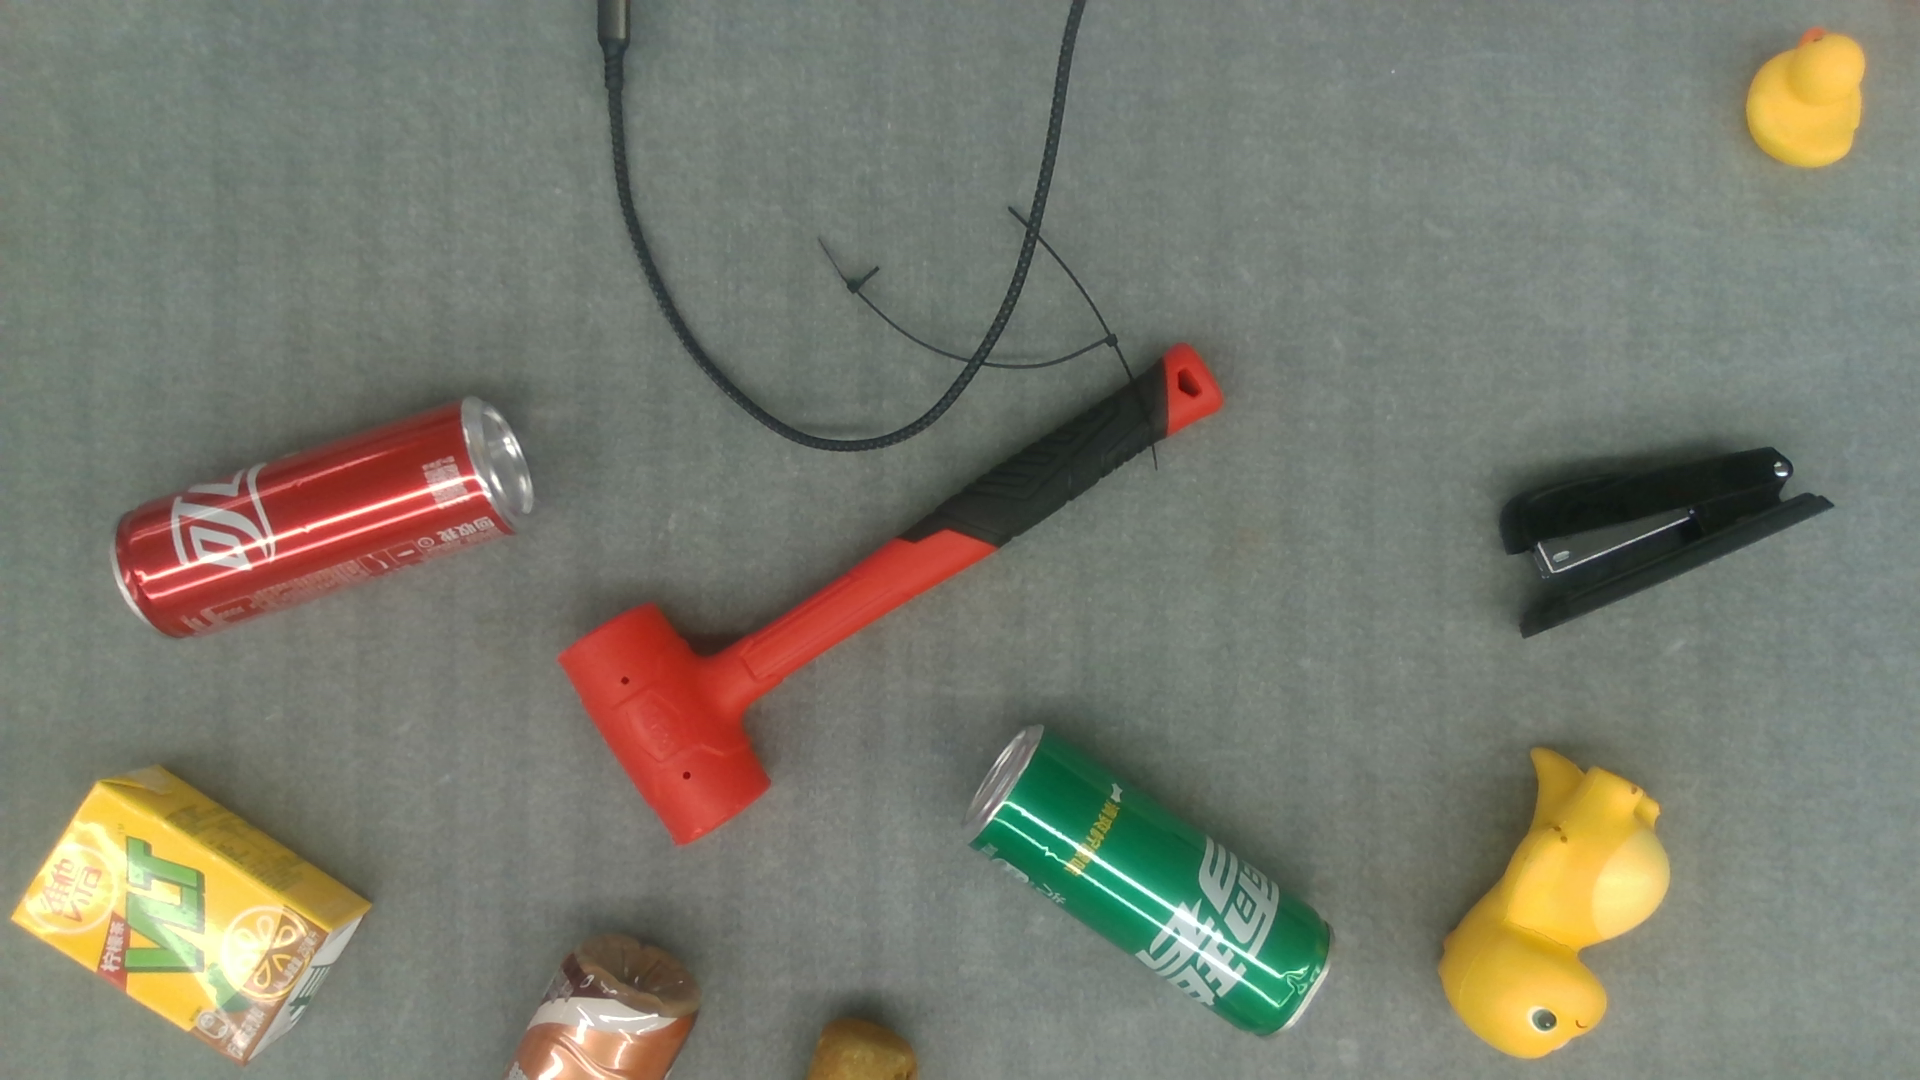
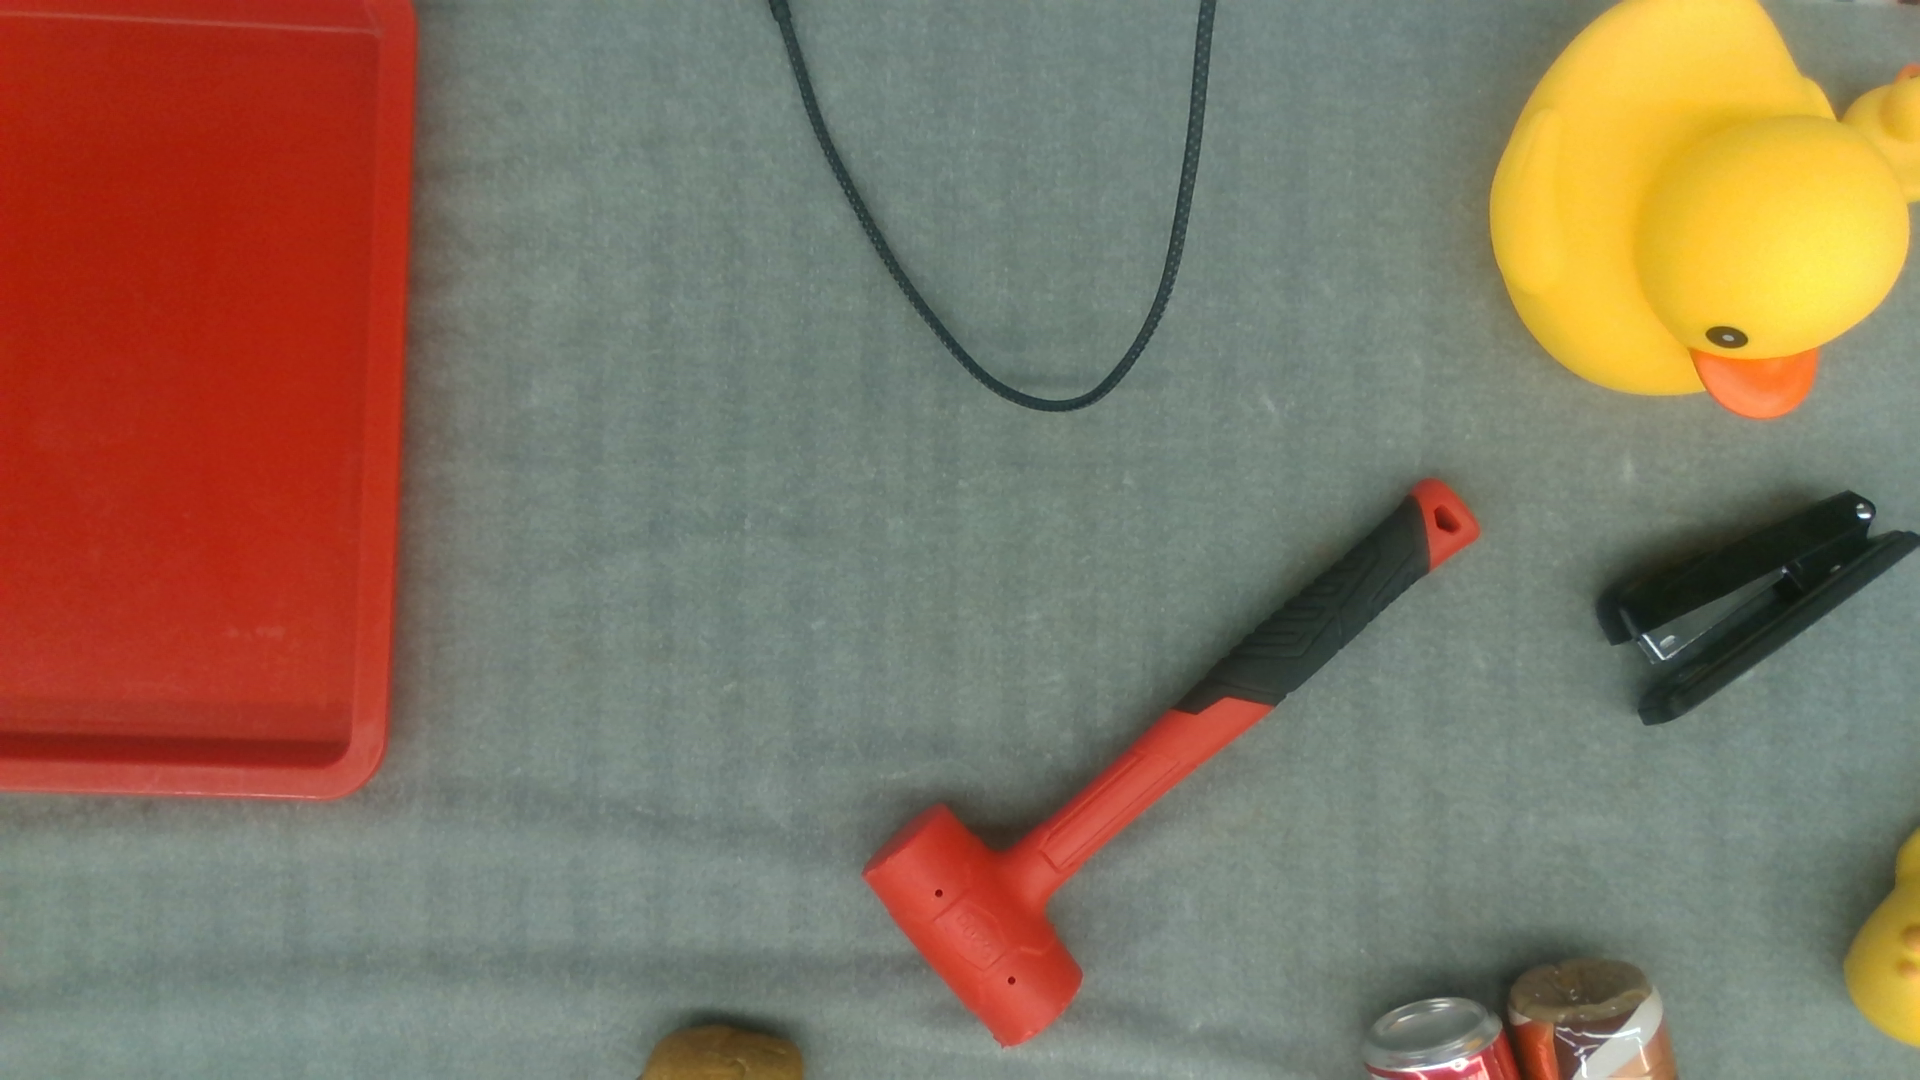
add init joint pose

diff --git a/edgs/main.py b/edgs/main.py
@@ -32,7 +32,6 @@ class EdgsTasks():
 
     def process_task(self):
         print("Sucessfully detected wake word")
-        
         # Step 1: Voice to Text using IFlytekInterface
         # self.speaker.play_audio(iflytek_config.start_recording_audio_path)
         # audio_frames = self.microphone.listen() 
@@ -44,8 +43,7 @@ class EdgsTasks():
         #     self.speaker.play_audio(feedback_params.not_clear)
         #     return None
         # self.speaker.play_audio(iflytek_config.stop_recording_audio_path)
-
-        language_prompt = "帮我拿一个雪碧"
+        language_prompt = "帮我拿一个锤子"
 
         # Step 2: Capture RGB-D using Realsense Camera
         self.camera.capture_current_info()
@@ -57,7 +55,8 @@ class EdgsTasks():
             return None
 
         # Step 3: Use VLM to understand the text and connect to image
-        gpt_result = self.doubao_interface.understand_image_by_text(language_prompt, color_image_path)        
+        gpt_result = self.doubao_interface.understand_image_by_text(language_prompt, color_image_path)  
+        print("gpt_result:",gpt_result)      
         if gpt_result is None:
             return None
         
@@ -80,8 +79,10 @@ class EdgsTasks():
         # Step 7: Execute movement
         self.task_controller.robotic_arm_controller.execute_movement_joints(q_list)
         self.task_controller.robotic_arm_controller.close_gripper()
-        self.task_controller.robotic_arm_controller.execute_movement_pose(self.task_controller.start_pose)
-        self.task_controller.robotic_arm_controller.execute_movement_joint(panda_py.ik(franka_pose.place_pose))
+        q_1 = panda_py.ik(franka_pose.pick_up_pose)
+        # q_2 = self.robot_planner.pose_to_joint(franka_pose.place_pose)
+        place_list = [q_1]
+        self.task_controller.robotic_arm_controller.execute_movement_joints(place_list)
         self.task_controller.robotic_arm_controller.open_gripper()
 
     def loop(self):

diff --git a/edgs/dexterous_grasp/config/control_module_varant.py b/edgs/dexterous_grasp/config/control_module_varant.py
@@ -7,7 +7,7 @@ HandMotionParams = namedtuple('HandMotionParams', ['speedSet', 'angleSet_execute
 HandDeviceParams = namedtuple('HandDeviceParams', ['port', 'baudrate', 'regdict'])
 FrankaParams = namedtuple('FrankaParams', ['hostname', 'username', 'password','T_C_E'])
 RealManParams = namedtuple('RealManParams', ['hostname', 'username', 'password'])
-FrankaPose = namedtuple('FrankaPose', ['place_pose'])
+FrankaPose = namedtuple('FrankaPose', ['pick_up_pose','place_pose','pick_up_joint','place_joint'])
 
 # Robot arm IP address
 # robot_arm_ip_address = "192.168.1.215"
@@ -80,10 +80,18 @@ realman_config = RealManParams(
 )
 
 franka_pose = FrankaPose(
-    place_pose = [
-        [9.99945904e-01, -9.06335005e-03, 2.60628050e-03, 3.07498051e-01],
-        [-9.05288659e-03, -9.99941399e-01, -3.99890525e-03, -6.31510330e-04],
-        [2.64237125e-03, 3.97509457e-03, -9.99988608e-01, 4.86762029e-01],
+    pick_up_pose = [
+        [9.99127271e-01, 2.53216505e-04, -4.15380770e-02, 3.72154993e-01],
+        [8.24733595e-04, -9.99895602e-01, 1.37424452e-02, 9.02327462e-03],
+        [-4.15302607e-02, -1.37647096e-02, -9.99042408e-01, 2.27123375e-01],
         [0.00000000e+00, 0.00000000e+00, 0.00000000e+00, 1.00000000e+00]
-    ]
+    ],
+    place_pose = [
+        [0.51680651, -0.85371277, -0.06376806, 0.29916253],
+        [-0.8555555, -0.51768258, -0.00320589, -0.34101281],
+        [-0.03027471, 0.05621394, -0.9979596, 0.09485565],
+        [0., 0., 0., 1.]
+    ],
+    pick_up_joint = [-0.011383417062461376, -0.25433722138404846, 0.022677350789308548, -2.6251397132873535, 0.005148423369973898, 2.295717477798462, 0.8916455507278442],
+    place_joint = []
 )

diff --git a/edgs/dexterous_grasp/logic_module/planning_module/robotic_arm_planning/robotic_arm_planner.py b/edgs/dexterous_grasp/logic_module/planning_module/robotic_arm_planning/robotic_arm_planner.py
@@ -42,7 +42,7 @@ class FrankaArmPlanner:
         translation = P_O_B
         return translation, rotation
 
-    def curobo_process(self, P_O_C,T_C_E, T_E_B):
+    def get_ik_solver(self):
         tensor_args = TensorDeviceType()
         config_file = load_yaml(join_path(get_robot_configs_path(), "franka.yml"))
         urdf_file = config_file["robot_cfg"]["kinematics"][
@@ -64,6 +64,11 @@ class FrankaArmPlanner:
             use_cuda_graph=True,
         )
         ik_solver = IKSolver(ik_config)
+        return ik_solver
+    
+    def curobo_process(self, P_O_C,T_C_E, T_E_B):
+        tensor_args = TensorDeviceType()
+        ik_solver = self.get_ik_solver()
 
         translation, rotation = self.get_translation_and_rotation(P_O_C, T_C_E, T_E_B)
         translation_tensor = torch.tensor(translation, device=tensor_args.device, dtype=tensor_args.dtype)
@@ -76,6 +81,14 @@ class FrankaArmPlanner:
         # 将tensor转为list
         q_solution = q_solution.tolist()[0]
         return q_solution
+    
+    def pose_to_joint(self, pose):
+        goal = Pose(torch.tensor(pose, device="cuda", dtype=torch.float32))
+        ik_solver = self.get_ik_solver()
+        joint = ik_solver.solve_batch(goal)
+        joint = joint.solution[joint.success]
+        joint = joint.tolist()[0]
+        return joint
     
     def plan_curobo(self, P_O_C, R, T_C_E, T_E_B,initial_angle_gap):
         """

diff --git a/edgs/dexterous_grasp/logic_module/control_module/tests/test_franka_control.py b/edgs/dexterous_grasp/logic_module/control_module/tests/test_franka_control.py
@@ -13,6 +13,10 @@ from dexterous_grasp.config import franka_config
 logger_manager = LoggerManager(project_root)
 robot_type = "franka"
 task_controller = TaskController(robot_type,franka_config, logger_manager)
+j = task_controller.robotic_arm_controller.robot_arm.get_state().theta
+print(j)
+pose = task_controller.robotic_arm_controller.robot_arm.get_pose()
+print(pose)
 initial_p = task_controller.robotic_arm_controller.robot_arm.get_pose()
 initial_j = panda_py.ik(initial_p)
 angle_gap = initial_j[6] 
